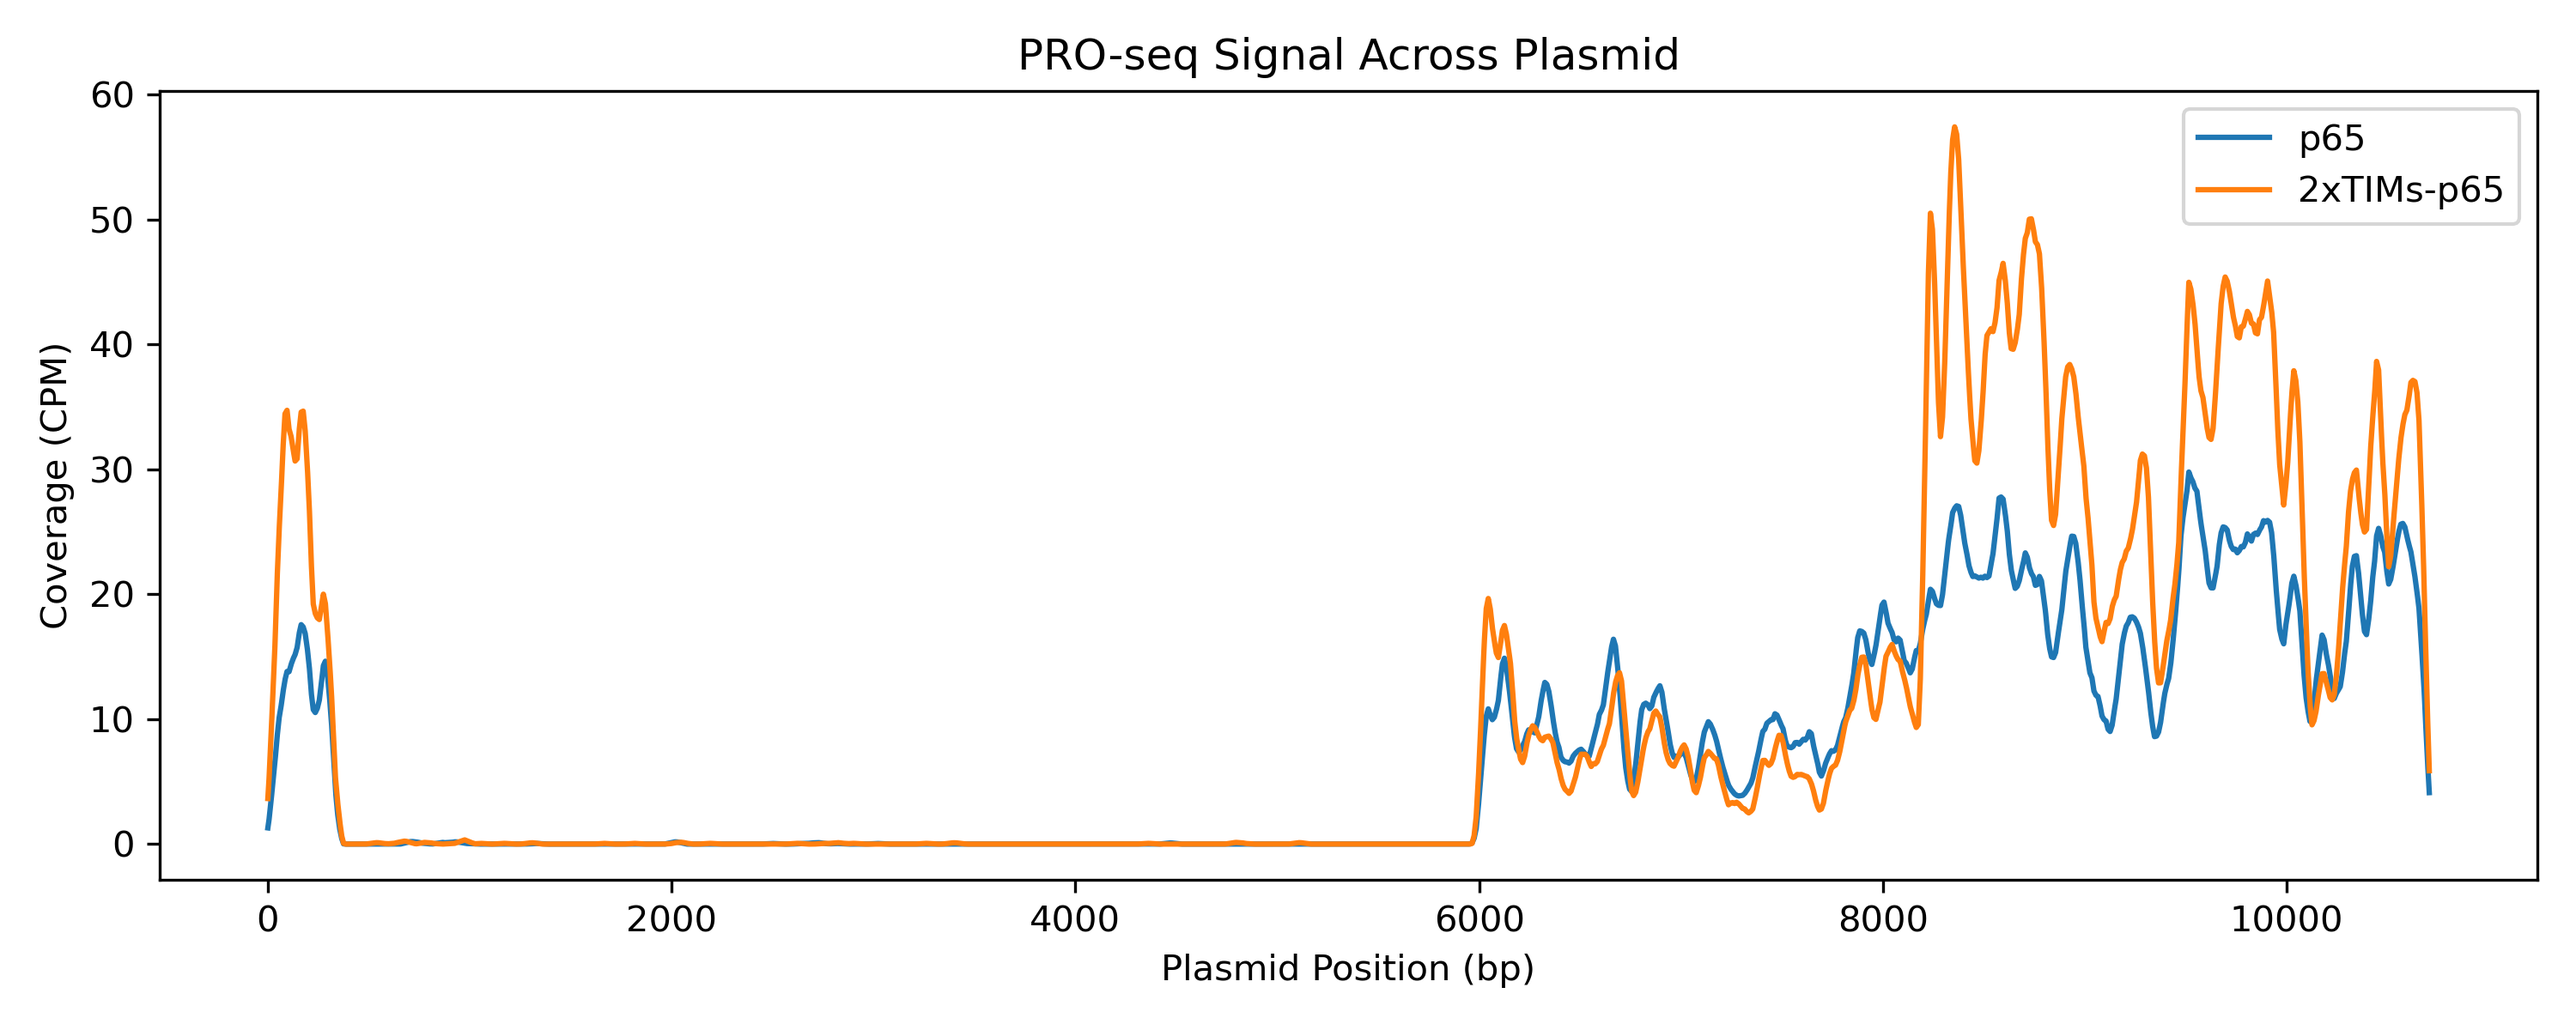
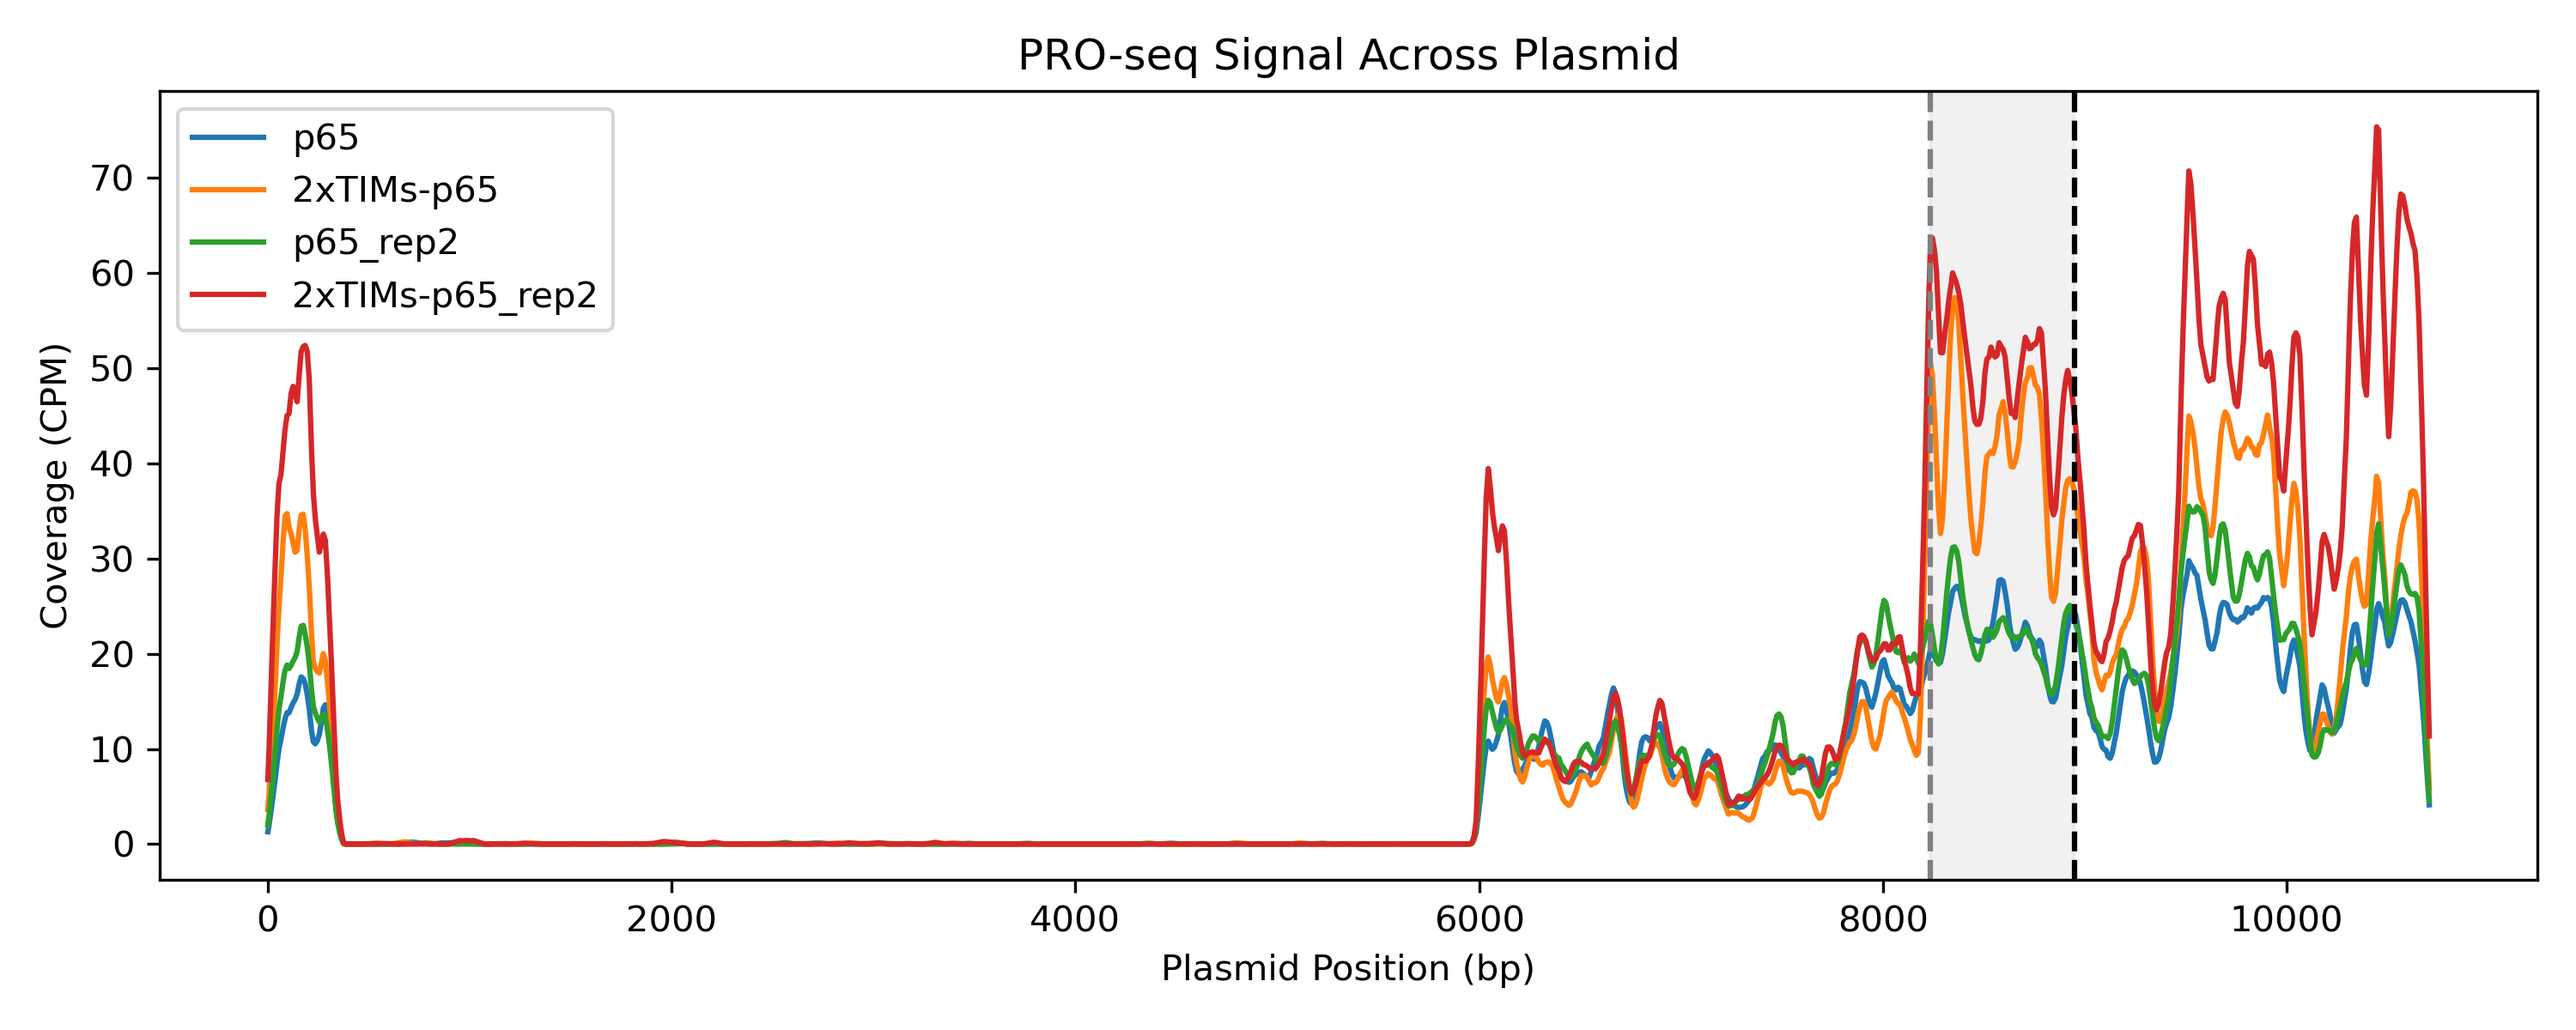
plotting R2 signal and update main

diff --git a/scripts/bigwig_plotR2.py b/scripts/bigwig_plotR2.py
@@ -1,0 +1,123 @@
+import pyBigWig
+import numpy as np
+import matplotlib.pyplot as plt
+
+# Input **R2** BigWigs — update paths if needed
+bigwigs = {
+    "p65": [
+        "results/bigwig/PR1567_S16_R2.bw",
+        "results/bigwig/PR1569_S18_R2.bw"
+    ],
+    "2xTIMs-p65": [
+        "results/bigwig/PR1568_S17_R2.bw",
+        "results/bigwig/PR1570_S19_R2.bw"
+    ]
+}
+
+# Function to auto-detect plasmid contig
+def detect_plasmid_contig(bw):
+    chroms = bw.chroms()
+    for chrom in chroms:
+        if not chrom.startswith('chr') and not chrom.startswith('KI') and not chrom.startswith('GL'):
+            return chrom, chroms[chrom]
+    return None, None
+
+# Detect plasmid contig
+example_bw = pyBigWig.open(next(iter(bigwigs.values()))[0])
+plasmid_chrom, plasmid_len = detect_plasmid_contig(example_bw)
+example_bw.close()
+
+if plasmid_chrom is None:
+    raise RuntimeError("Plasmid contig not detected! Please check your BigWig files.")
+
+print(f"Detected plasmid contig: {plasmid_chrom} (length: {plasmid_len})")
+
+# Plot setup
+plt.figure(figsize=(14, 6))
+window = 50  # smoothing window
+start_pos = 6000
+
+# Colors for the lines
+colors = {'p65': '#1f77b4', '2xTIMs-p65': '#ff7f0e'}
+
+for label, paths in bigwigs.items():
+    all_values = []
+    
+    # Load all replicates
+    for bw_path in paths:
+        bw = pyBigWig.open(bw_path)
+        vals = np.array(bw.values(plasmid_chrom, 0, plasmid_len))
+        bw.close()
+        all_values.append(vals)
+    
+    all_values = np.vstack(all_values)
+    
+    # Smooth each replicate individually
+    smoothed_reps = []
+    for vals in all_values:
+        smoothed = np.convolve(vals, np.ones(window)/window, mode='same')
+        smoothed_reps.append(smoothed)
+    
+    smoothed_reps = np.vstack(smoothed_reps)
+    
+    # Extract region from 6000bp to end
+    region_data = smoothed_reps[:, start_pos:]
+    region_x = np.arange(start_pos, plasmid_len)
+    
+    # Calculate mean and standard deviation
+    mean_vals = np.mean(region_data, axis=0)
+    std_vals = np.std(region_data, axis=0)
+    
+    # Plot mean line
+    color = colors[label]
+    plt.plot(region_x, mean_vals, label=label, color=color, linewidth=2)
+    
+    # Add shaded standard deviation
+    plt.fill_between(region_x, mean_vals - std_vals, mean_vals + std_vals, 
+                     color=color, alpha=0.2)
+
+# TSS and TES positions
+TSS = 8236
+TES = 8949
+
+# Add vertical lines for TSS and TES with clear labels
+plt.axvline(x=TSS, color='gray', linestyle='--', linewidth=1.5, alpha=0.8)
+plt.axvline(x=TES, color='black', linestyle='--', linewidth=1.5, alpha=0.8)
+
+# Add text labels for TSS and TES
+plt.text(TSS, plt.ylim()[1] * 0.95, 'mCherry TSS', rotation=90, 
+         verticalalignment='top', horizontalalignment='right', 
+         fontsize=10, color='gray', fontweight='bold')
+plt.text(TES, plt.ylim()[1] * 0.95, 'TES/Puro start', rotation=90, 
+         verticalalignment='top', horizontalalignment='right', 
+         fontsize=10, color='black', fontweight='bold')
+
+# Add shaded region for mCherry
+plt.axvspan(TSS, TES, color='lightgray', alpha=0.3, label='mCherry')
+
+# Axis labels and title
+plt.xlabel("Plasmid Position (bp)", fontsize=12)
+plt.ylabel("Coverage (CPM)", fontsize=12)
+plt.title("PRO-seq R2 Signal Across Plasmid Cassette", fontsize=14, fontweight='bold')
+
+# Set x-axis limits to show only the region of interest
+plt.xlim(start_pos, plasmid_len)
+
+# Customize x-axis ticks
+x_ticks = np.arange(6000, plasmid_len + 1000, 1000)
+x_ticks = x_ticks[x_ticks <= plasmid_len]
+plt.xticks(x_ticks)
+
+# Add grid for better readability
+plt.grid(True, alpha=0.3)
+
+# Legend
+plt.legend(loc="upper left", frameon=True, fancybox=True, shadow=True)
+
+# Layout and save
+plt.tight_layout()
+plt.savefig("plasmid_cassette_R2_signal.png", dpi=300, bbox_inches='tight')
+
+
+print("✅ Plot saved as plasmid_cassette_R2_signal.png")
+print(f"✅ Plot shows region from {start_pos}bp to {plasmid_len}bp with standard deviation shading")
